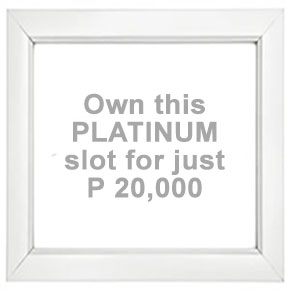
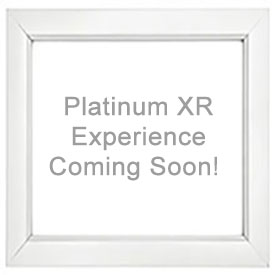
edits

Changed region(s): [[0.1745, 0.32, 0.8145, 0.6982]]

diff --git a/learn-more.php b/learn-more.php
@@ -1,7 +1,7 @@
 <?php
 
 $title = "What is ARville?";
-$description = "ARville is an online ecosystem of businesses, consumers, and communities connected together by immersive AR experiences and innovative marketing and customer relationship tools.";
+$description = "ARville is an online ecosystem of businesses, consumers, and communities connected together by immersive XR experiences and innovative marketing and customer relationship tools.";
 
 // Header section
 echo "<!DOCTYPE html>";
@@ -36,12 +36,12 @@ echo "        <div class='mt-5'></div>";
 echo "        <!-- Section: What Makes Us Unique -->";
 echo "        <div class='row text-start'>";
 echo "            <div class='col-lg-6 mb-4'>";
-echo "                <h3 style='border-top: 5px solid darkred; border-bottom: 5px solid darkred; padding: 10px 0;'>Immersive AR Experiences</h3>";
-echo "                <p>ARville harnesses the power of augmented reality (AR) to revolutionize customer engagement, making every interaction more dynamic and impactful. Businesses can showcase virtual product demonstrations, simulate real-world scenarios, and create fully interactive marketing campaigns that captivate their audiences. Whether it's allowing customers to visualize furniture in their homes or immersing them in a gamified shopping experience, AR bridges the gap between imagination and reality. These experiences not only leave a lasting impression but also foster deep brand loyalty and enhanced customer satisfaction.</p>";
+echo "                <h3 style='border-top: 5px solid darkred; border-bottom: 5px solid darkred; padding: 10px 0;'>Immersive XR Experiences</h3>";
+echo "                <p>ARville harnesses the power of extended reality (XR) to revolutionize customer engagement, making every interaction more dynamic and impactful. Businesses can showcase virtual product demonstrations, simulate real-world scenarios, and create fully interactive marketing campaigns that captivate their audiences. Whether it's allowing customers to visualize furniture in their homes or immersing them in a gamified shopping experience, XR bridges the gap between imagination and reality. These experiences not only leave a lasting impression but also foster deep brand loyalty and enhanced customer satisfaction.</p>";
 echo "            </div>";
 echo "            <div class='col-lg-6 mb-4'>";
 echo "                <h3 style='border-top: 5px solid darkred; border-bottom: 5px solid darkred; padding: 10px 0;'>Innovative Marketing Tools</h3>";
-echo "                <p>ARville provides businesses with state-of-the-art tools to implement and manage AR-driven marketing strategies effortlessly. Our platform enables companies to create customized AR campaigns, track their performance, and gain invaluable insights into customer preferences and behavior. These analytics empower businesses to refine their strategies in real time, ensuring maximum effectiveness and engagement. By offering a seamless blend of creativity and data-driven decision-making, ARville equips businesses to stay ahead in today's competitive marketplace.</p>";
+echo "                <p>ARville provides businesses with state-of-the-art tools to implement and manage XR-driven marketing strategies effortlessly. Our platform enables companies to create customized XR campaigns, track their performance, and gain invaluable insights into customer preferences and behavior. These analytics empower businesses to refine their strategies in real time, ensuring maximum effectiveness and engagement. By offering a seamless blend of creativity and data-driven decision-making, ARville equips businesses to stay ahead in today's competitive marketplace.</p>";
 echo "            </div>";
 echo "        </div>";
 
@@ -49,11 +49,11 @@ echo "        <!-- Section: Who We Serve -->";
 echo "        <div class='row text-start'>";
 echo "            <div class='col-lg-6 mb-4'>";
 echo "                <h3 style='border-top: 5px solid darkred; border-bottom: 5px solid darkred; padding: 10px 0;'>Value to Businesses</h3>";
-echo "                <p>ARville is designed to cater to businesses of all sizes, from innovative startups looking to make their mark to established enterprises aiming to enhance their brand presence. Our platform helps businesses stand out by offering unique AR experiences that attract and retain customers. By integrating AR into their operations, businesses can increase product visibility, foster meaningful interactions, and provide value-driven customer engagements. Whether it's an online retailer offering AR fitting rooms or a cafe using AR promotions, ARville helps businesses redefine how they connect with their audience.</p>";
+echo "                <p>ARville is designed to cater to businesses of all sizes, from innovative startups looking to make their mark to established enterprises aiming to enhance their brand presence. Our platform helps businesses stand out by offering unique XR experiences that attract and retain customers. By integrating XR into their operations, businesses can increase product visibility, foster meaningful interactions, and provide value-driven customer engagements. Whether it's an online retailer offering XR fitting rooms or a cafe using XR promotions, ARville helps businesses redefine how they connect with their audience.</p>";
 echo "            </div>";
 echo "            <div class='col-lg-6 mb-4'>";
 echo "                <h3 style='border-top: 5px solid darkred; border-bottom: 5px solid darkred; padding: 10px 0;'>Value to Consumers</h3>";
-echo "                <p>For consumers, ARville transforms everyday activities like shopping, learning, and entertainment into immersive and interactive experiences. Imagine exploring a virtual neighborhood to discover exclusive deals or engaging in an AR treasure hunt while shopping online. ARville makes it possible for customers to visualize products, participate in gamified activities, and enjoy a more personalized and engaging user journey. This level of convenience and interactivity not only enhances customer satisfaction but also turns routine activities into memorable adventures.</p>";
+echo "                <p>For consumers, ARville transforms everyday activities like shopping, learning, and entertainment into immersive and interactive experiences. Imagine exploring a virtual neighborhood to discover exclusive deals or engaging in an XR treasure hunt while shopping online. ARville makes it possible for customers to visualize products, participate in gamified activities, and enjoy a more personalized and engaging user journey. This level of convenience and interactivity not only enhances customer satisfaction but also turns routine activities into memorable adventures.</p>";
 echo "            </div>";
 echo "        </div>";
 
@@ -62,13 +62,13 @@ echo "        <div class='mt-3'>";
 echo "            <h2 style='color: #0447f3; font-weight: 600;'>Dynamic Features of ARville</h2>";
 echo "        <div class='mt-3'></div>";
 echo "            <ul class='list-group text-start'>";
-echo "                <li class='list-group-item'><strong>Quarterly Gamified Events:</strong> Participate in AR treasure hunts and thematic storylines that engage users with tenant-specific AR experiences.</li>";
-echo "                <li class='list-group-item'><strong>Annual ARville Convention or Concert:</strong> Explore virtual expos with 3D booths or enjoy AR-enhanced concerts sponsored by tenant businesses.</li>";
-echo "                <li class='list-group-item'><strong>Unified AR Branding:</strong> Experience cohesive branding with shared digital spaces and tenant AR experiences labeled 'Powered by ARville.'</li>";
-echo "                <li class='list-group-item'><strong>Centralized Rewards System:</strong> Earn and redeem AR points across tenants, boosting engagement and customer loyalty.</li>";
-echo "                <li class='list-group-item'><strong>Collaborative AR Experiences:</strong> Engage in joint promotions or story chains involving multiple tenants to create a shared AR narrative.</li>";
-echo "                <li class='list-group-item'><strong>Partnerships with High-Profile Events:</strong> Tie into major festivals or esports tournaments, leveraging AR to enhance visibility and user interaction.</li>";
-echo "                <li class='list-group-item'><strong>Community-Centric AR Events:</strong> Participate in AR-powered neighborhood tours or virtual art installations hosted by tenant businesses.</li>";
+echo "                <li class='list-group-item'><strong>Quarterly Gamified Events:</strong> Participate in XR treasure hunts and thematic storylines that engage users with tenant-specific XR experiences.</li>";
+echo "                <li class='list-group-item'><strong>Annual ARville Convention or Concert:</strong> Explore virtual expos with 3D booths or enjoy XR-enhanced concerts sponsored by tenant businesses.</li>";
+echo "                <li class='list-group-item'><strong>Unified XR Branding:</strong> Experience cohesive branding with shared digital spaces and tenant XR experiences labeled 'Powered by ARville.'</li>";
+echo "                <li class='list-group-item'><strong>Centralized Rewards System:</strong> Earn and redeem XR points across tenants, boosting engagement and customer loyalty.</li>";
+echo "                <li class='list-group-item'><strong>Collaborative XR Experiences:</strong> Engage in joint promotions or story chains involving multiple tenants to create a shared XR narrative.</li>";
+echo "                <li class='list-group-item'><strong>Partnerships with High-Profile Events:</strong> Tie into major festivals or esports tournaments, leveraging XR to enhance visibility and user interaction.</li>";
+echo "                <li class='list-group-item'><strong>Community-Centric XR Events:</strong> Participate in XR-powered neighborhood tours or virtual art installations hosted by tenant businesses.</li>";
 echo "                <li class='list-group-item'><strong>Measuring and Reinforcing Success:</strong> Use leaderboards, social media amplification, and event recaps to highlight engagement and tenant contributions.</li>";
 echo "            </ul>";
 echo "        </div>";

diff --git a/index.php b/index.php
@@ -30,7 +30,7 @@ echo "<html lang='en'>";
 echo "<head>";
 echo "    <meta charset='UTF-8'>";
 echo "    <meta name='viewport' content='width=device-width, initial-scale=1.0'>";
-echo "    <title>ARville - The Ultimate Online AR Network</title>";
+echo "    <title>ARville - The Ultimate Online XR Network</title>";
 echo "    <link rel='stylesheet' href='https://cdn.jsdelivr.net/npm/bootstrap@5.3.0/dist/css/bootstrap.min.css'>";
 echo "    <link rel='stylesheet' href='styles.css'>";
 echo "</head>";
@@ -63,10 +63,10 @@ echo "</nav>";
 echo "<header class='hero text-center py-5 bg-primary text-white'>";
 echo "    <div class='container'>";
 echo "        <h1 class='display-4 hero-title'>Step into the World of ARville:<br/>Where Marketing Becomes Immersive</h1>";
-echo "        <p class='lead hero-subtitle'>Explore magical Augmented Reality (AR) experiences or join the network to revolutionize your business.</p>";
+echo "        <p class='lead hero-subtitle'>Explore magical online Extended Reality (XR) experiences or join our web XR network to revolutionize your business.</p>";
 echo "        <div class='d-flex justify-content-center gap-3'>";
-echo "            <a href='use-cases.php' id='discover-btn' class='btn btn-lg btn-outline-light me-5 hero-btn'>Discover AR Experiences</a>";
-echo "            <a href='plans.php' id='join-btn' class='btn btn-lg btn-outline-light hero-btn'>Join the Network</a>";
+echo "            <a href='use-cases.php' id='discover-btn' class='btn btn-lg btn-outline-light me-5 hero-btn'>Discover Web XR Experiences</a>";
+echo "            <a href='plans.php' id='join-btn' class='btn btn-lg btn-outline-light hero-btn'>Join the Web XR Network</a>";
 echo "        </div>";
 echo "    </div>";
 echo "</header>";
@@ -121,20 +121,20 @@ echo "</style>";
 // Business Categories Section
 echo "<section class='categories py-5' id='categories'>";
 echo "    <div class='container'>";
-echo "        <h2 class='text-center mb-4'>Explore Our Vibrant AR Network</h2>";
+echo "        <h2 class='text-center mb-4'>Explore Our Vibrant Web XR Network</h2>";
 echo "        <div style='height: 20px;'></div>"; // Spacer element
 echo "        <div class='row g-4'>";
 
 $categories = [
-    ["title" => "Hospitality and Tourism", "tagline" => "Enhance your travel experiences with AR-driven services.", "icon" => "icon-hospitality.jpg", "hoverIcon" => "icon-hospitality2.jpg", "link" => "cat-page.php?cat=hospitality"],
-    ["title" => "Education and Development", "tagline" => "Empower your mind through AR.", "icon" => "icon-education.jpg", "hoverIcon" => "icon-education2.jpg", "link" => "cat-page.php?cat=education"],
-    ["title" => "Sports and Hobbies", "tagline" => "Immerse yourself in passionate AR experiences.", "icon" => "icon-sports.jpg", "hoverIcon" => "icon-sports2.jpg", "link" => "cat-page.php?cat=sports"],
-    ["title" => "Electronics and Gadgets", "tagline" => "Acquaint yourself with tech products through AR.", "icon" => "icon-electronics.jpg", "hoverIcon" => "icon-electronics2.jpg", "link" => "cat-page.php?cat=electronics"],
-    ["title" => "Style and Fashion", "tagline" => "Reinvent your look with AR.", "icon" => "icon-fashion.jpg", "hoverIcon" => "icon-fashion2.jpg", "link" => "cat-page.php?cat=fashion"],
-    ["title" => "Beauty and Wellness", "tagline" => "Elevate your self-care through AR.", "icon" => "icon-beauty.jpg", "hoverIcon" => "icon-beauty2.jpg", "link" => "cat-page.php?cat=beauty"],
-    ["title" => "Cars and Car Accessories", "tagline" => "Immerse yourself in the glitz of showbiz with AR.", "icon" => "icon-cars.jpg", "hoverIcon" => "icon-cars2.jpg", "link" => "cat-page.php?cat=cars"],
-    ["title" => "Real Estate", "tagline" => "Enjoy looking for property investments through AR.", "icon" => "icon-estate.jpg", "hoverIcon" => "icon-estate2.jpg", "link" => "cat-page.php?cat=estate"],
-    ["title" => "Government and Public Service", "tagline" => "Find government information and assistance through AR.", "icon" => "icon-gov.jpg", "hoverIcon" => "icon-gov2.jpg", "link" => "cat-page.php?cat=gov"],
+    ["title" => "Hospitality and Tourism", "tagline" => "Enhance your travel experiences with XR-driven services.", "icon" => "icon-hospitality.jpg", "hoverIcon" => "icon-hospitality2.jpg", "link" => "cat-page.php?cat=hospitality"],
+    ["title" => "Education and Development", "tagline" => "Empower your mind through XR.", "icon" => "icon-education.jpg", "hoverIcon" => "icon-education2.jpg", "link" => "cat-page.php?cat=education"],
+    ["title" => "Sports and Recreation", "tagline" => "Immerse yourself in passionate XR experiences.", "icon" => "icon-sports.jpg", "hoverIcon" => "icon-sports2.jpg", "link" => "cat-page.php?cat=sports"],
+    ["title" => "Electronics and Gadgets", "tagline" => "Acquaint yourself with tech products through XR.", "icon" => "icon-electronics.jpg", "hoverIcon" => "icon-electronics2.jpg", "link" => "cat-page.php?cat=electronics"],
+    ["title" => "Style and Fashion", "tagline" => "Reinvent your look with XR.", "icon" => "icon-fashion.jpg", "hoverIcon" => "icon-fashion2.jpg", "link" => "cat-page.php?cat=fashion"],
+    ["title" => "Beauty and Wellness", "tagline" => "Elevate your self-care through XR.", "icon" => "icon-beauty.jpg", "hoverIcon" => "icon-beauty2.jpg", "link" => "cat-page.php?cat=beauty"],
+    ["title" => "Cars and Car Accessories", "tagline" => "Find upgrades and accessories for your car with XR.", "icon" => "icon-cars.jpg", "hoverIcon" => "icon-cars2.jpg", "link" => "cat-page.php?cat=cars"],
+    ["title" => "Real Estate", "tagline" => "Enjoy looking for property investments through XR.", "icon" => "icon-estate.jpg", "hoverIcon" => "icon-estate2.jpg", "link" => "cat-page.php?cat=estate"],
+    ["title" => "Government and Public Service", "tagline" => "Find government information and assistance through XR.", "icon" => "icon-gov.jpg", "hoverIcon" => "icon-gov2.jpg", "link" => "cat-page.php?cat=gov"],
 ];
 
 foreach ($categories as $category) {
@@ -165,7 +165,7 @@ echo "            <div style='margin-bottom: 5px;'></div>";
 echo "<section class='about py-5' id='about' style='background-color: #f2f2f2;'>"; 
 echo "    <div class='container text-center'>";
 echo "        <h2>What is ARville?</h2>";
-echo "        <p class='lead'>ARville is an online ecosystem of businesses, consumers, and communities connected together by immersive AR experiences and innovative marketing and customer relationship tools.</p>";
+echo "        <p class='lead'>ARville is an online ecosystem of businesses, consumers, and communities connected together by immersive XR experiences and innovative marketing and customer relationship tools.</p>";
 echo "        <a href='learn-more.php' class='btn btn-primary btn-lg'>Learn More About ARville</a>";
 echo "    </div>";
 echo "</section>";
@@ -174,35 +174,35 @@ echo "</section>";
 echo "<section class='plans py-4' id='plans'>";
 echo "    <div class='container'>";
 echo "        <h2 class='text-center mb-4'>Plans to Suit Every Vision</h2>";
-echo "        <div class='row g-4'>";
+echo "        <div class='row g-4 align-items-stretch'>"; // Added align-items-stretch for equal height
 
 $plans = [
     [
         "name" => "Silver Plan", 
-        "features" => "Essential AR tools designed for small businesses eager to expand and grow quickly.", 
+        "features" => "Place three (3) products or signages in high-traffic communal AR or VR environments.", 
         "cta" => "Sign Up", 
         "link" => "signup-silver.php"
     ],
     [
         "name" => "Gold Plan", 
-        "features" => "Advanced AR capabilities tailored for mainstream businesses aiming to maintain market leadership.", 
+        "features" => "Own an exclusive AR or VR scene or a booth in a large VR venue: perfect for a branded showroom, VIP lounge, or interactive product demo.", 
         "cta" => "Sign Up", 
         "link" => "signup-gold.php"
     ],
     [
         "name" => "Platinum Plan", 
-        "features" => "Customized AR solutions for large businesses seeking to enhance prestige and exclusivity.", 
+        "features" => "Own a grand, landmark VR environment like a virtual expo hall, convention center, museum, or mall to host events and immersive brand experiences.", 
         "cta" => "Sign Up", 
         "link" => "signup-platinum.php"
     ]
 ];
 
 foreach ($plans as $plan) {
-    echo "<div class='col-lg-4 col-md-6'>";
-    echo "    <div class='plan border rounded p-4 text-center'>";
+    echo "<div class='col-lg-4 col-md-6 d-flex'>"; // Added d-flex
+    echo "    <div class='plan border rounded p-4 text-center d-flex flex-column w-100'>"; // Added d-flex flex-column w-100
     echo "        <h3>{$plan['name']}</h3>";
-    echo "        <p>{$plan['features']}</p>";
-    echo "        <a href='{$plan['link']}' class='btn btn-primary'>{$plan['cta']}</a>";
+    echo "        <p class='flex-grow-1'>{$plan['features']}</p>"; // Added flex-grow-1
+    echo "        <a href='{$plan['link']}' class='btn btn-primary mt-auto'>{$plan['cta']}</a>"; // Added mt-auto
     echo "    </div>";
     echo "</div>";
 }
@@ -211,12 +211,26 @@ echo "        </div>";
 echo "    </div>";
 echo "</section>";
 
+// Add custom CSS for plan section
+echo "<style>";
+echo ".plans .plan {";
+echo "    transition: transform 0.3s ease, box-shadow 0.3s ease;";
+echo "}";
+echo ".plans .plan:hover {";
+echo "    transform: translateY(-5px);";
+echo "    box-shadow: 0 10px 20px rgba(0,0,0,0.1);";
+echo "}";
+echo ".plans .btn {";
+echo "    min-width: 120px;";
+echo "}";
+echo "</style>";
+
 // Footer
 echo "<footer class='footer py-4 bg-dark text-white text-center'>";
 echo "    <div class='container'>";
 echo "        <p>&copy; " . date('Y') . " ARville. All rights reserved.</p>";
 echo "        <div class='footer-links'>";
-echo "            <a href='products.php' class='text-white'>AR Products</a> | ";
+echo "            <a href='products.php' class='text-white'>XR Products</a> | ";
 echo "            <a href='plans.php' class='text-white'>Subscription Plans</a> | ";
 echo "            <a href='about-us.php' class='text-white'>About Us</a> | ";
 echo "            <a href='contact.php' class='text-white'>Contact</a>";

diff --git a/plans.php b/plans.php
@@ -3,11 +3,9 @@
 $plans = [
     [
         "name" => "Silver Plan",
-        "price" => "&#8369;10,000",
+        "price" => "Starts at &#8369;2,000",
         "features" => [
-            "Essential AR tools",
-            "Basic analytics",
-            "Email support",
+            "Place three (3) products or signages in high-traffic communal AR or VR environments.",
         ],
         "cta" => "Sign Up",
         "link" => "signup-silver.php",
@@ -15,11 +13,9 @@ $plans = [
     ],
     [
         "name" => "Gold Plan",
-        "price" => "&#8369;20,000",
+        "price" => "Starts at &#8369;6,000",
         "features" => [
-            "Advanced AR tools",
-            "Gamification features",
-            "Priority support",
+            "Own an exclusive AR or VR scene or a booth in a large VR venue: perfect for a branded showroom, VIP lounge, or interactive product demo.",
         ],
         "cta" => "Sign Up",
         "link" => "signup-gold.php",
@@ -27,11 +23,9 @@ $plans = [
     ],
     [
         "name" => "Platinum Plan",
-        "price" => "&#8369;50,000",
+        "price" => "Starts at &#8369;30,000",
         "features" => [
-            "Tailored AR solutions",
-            "Comprehensive analytics",
-            "24/7 dedicated support",
+            "Own a grand, landmark VR environment like a virtual expo hall, convention center, museum, or mall to showcase a multitude of products, host events, and offer immersive brand experiences.",
         ],
         "cta" => "Sign Up",
         "link" => "signup-platinum.php",
@@ -48,6 +42,48 @@ echo "    <meta name='viewport' content='width=device-width, initial-scale=1.0'>
 echo "    <title>Plans - Arville</title>";
 echo "    <link rel='stylesheet' href='https://cdn.jsdelivr.net/npm/bootstrap@5.3.0/dist/css/bootstrap.min.css'>";
 echo "    <link rel='stylesheet' href='styles.css'>";
+echo "    <style>";
+echo "        .card {";
+echo "            transition: transform 0.3s ease, box-shadow 0.3s ease;";
+echo "            height: 100%;";
+echo "            display: flex;";
+echo "            flex-direction: column;";
+echo "        }";
+echo "        .card:hover {";
+echo "            transform: translateY(-5px);";
+echo "            box-shadow: 0 10px 20px rgba(0,0,0,0.15) !important;";
+echo "        }";
+echo "        .card-body {";
+echo "            display: flex;";
+echo "            flex-direction: column;";
+echo "            flex-grow: 1;";
+echo "        }";
+echo "        .card-body .btn {";
+echo "            margin-top: auto;";
+echo "            width: 80%;";
+echo "            align-self: center;";
+echo "        }";
+echo "        .border-gold {";
+echo "            border: 3px solid gold !important;";
+echo "        }";
+echo "        .border-lightblue {";
+echo "            border: 3px solid #add8e6 !important;";
+echo "        }";
+echo "        .border-gray {";
+echo "            border: 3px solid #dee2e6 !important;";
+echo "        }";
+echo "        .most-popular {";
+echo "            color: gold;";
+echo "            font-size: 1.1rem;";
+echo "            font-weight: bold;";
+echo "            margin-top: -0.5rem;";
+echo "            margin-bottom: 0.5rem;";
+echo "        }";
+echo "        .list-group-item {";
+echo "            border: none;";
+echo "            padding: 0.75rem 0;";
+echo "        }";
+echo "    </style>";
 echo "</head>";
 echo "<body>";
 
@@ -74,33 +110,33 @@ echo "</nav>";
 // Header Section
 echo "<header class='text-center py-5 bg-primary text-white'>";
 echo "    <h1>Choose the Plan That Fits Your Needs</h1>";
-echo "    <p class='lead'>Empowering your business with cutting-edge AR solutions.</p>";
+echo "    <p class='lead'>Empowering your business with cutting-edge XR solutions.</p>";
 echo "</header>";
 
 // Plans Section
 echo "<main class='py-5'>";
 echo "    <div class='container'>";
-echo "        <div class='row row-cols-1 row-cols-md-3 g-4'>";
+echo "        <div class='row row-cols-1 row-cols-md-3 g-4 align-items-stretch'>"; // Added align-items-stretch
 
 // Loop through the plans
 foreach ($plans as $plan) {
     $borderColor = $plan['highlight'] ? "border-gold" : ($plan['name'] === "Platinum Plan" ? "border-lightblue" : "border-gray");
-	$mostPopular = $plan['highlight'] ? "<p style='color: gold; font-size: 1.5rem; font-weight: bold; margin-top: -0.5rem; margin-bottom: 0.5 rem;'>(Most Popular)</p>" : "";
+    $mostPopular = $plan['highlight'] ? "<p class='most-popular'>(Most Popular)</p>" : "";
 
-    echo "<div class='col'>";
-    echo "    <div class='card $borderColor text-center shadow-sm'>";
+    echo "<div class='col d-flex'>"; // Added d-flex
+    echo "    <div class='card $borderColor text-center shadow-sm w-100'>"; // Added w-100
     echo "        <div class='card-header bg-primary text-white'>";
     echo "            <h1>{$plan['name']}</h1>";
     echo $mostPopular; // Add 'Most Popular' for Gold Plan
     echo "        </div>";
-    echo "        <div class='card-body'>";
+    echo "        <div class='card-body d-flex flex-column'>"; // Added d-flex flex-column
     echo "            <h3 class='card-title text-primary'>{$plan['price']}</h3>";
-    echo "            <ul class='list-group list-group-flush my-3'>";
+    echo "            <ul class='list-group list-group-flush my-3 flex-grow-1'>"; // Added flex-grow-1
     foreach ($plan['features'] as $feature) {
         echo "                <li class='list-group-item'>$feature</li>";
     }
     echo "            </ul>";
-    echo "            <a href='{$plan['link']}' class='btn btn-primary'>{$plan['cta']}</a>";
+    echo "            <a href='{$plan['link']}' class='btn btn-primary mt-auto'>{$plan['cta']}</a>"; // Added mt-auto
     echo "        </div>";
     echo "    </div>";
     echo "</div>";

diff --git a/about-us.php b/about-us.php
@@ -1,7 +1,7 @@
 <?php
 // Define the "About ARville" page content
 $title = "About ARville";
-$description = "ARville is an online ecosystem of businesses, consumers, and communities connected together by immersive AR experiences and innovative marketing and customer relationship tools. Below are our mission, vision, and the dedicated team that brings it all together.";
+$description = "ARville is an online ecosystem of businesses, consumers, and communities connected together by immersive web XR experiences and innovative marketing and customer relationship tools. Below are our mission, vision, and the dedicated team that brings it all together.";
 
 // Header section
 echo "<!DOCTYPE html>";
@@ -54,13 +54,13 @@ echo "</div>";
 // Section: Mission
 echo "<div class='container mt-5'>"; // Add container for centered content
 echo "    <h2 style='color: #8b0000; font-weight: 600; background-color: #f7f7f7; padding: 15px; border-radius: 5px; text-align: center;'>Our Mission</h2>";
-echo "    <p class='mt-3 text-center'>ARville is committed to revolutionizing how businesses and communities connect through cutting-edge AR technology. We strive to empower businesses, enrich consumer experiences, and create a vibrant ecosystem where technology enhances real-world interactions.</p>";
+echo "    <p class='mt-3 text-center'>ARville is committed to revolutionizing how businesses and communities connect through cutting-edge  XR technology. We strive to empower businesses, enrich consumer experiences, and create a vibrant ecosystem where technology enhances real-world interactions.</p>";
 echo "</div>";
 
 // Section: Vision
 echo "<div class='container mt-5'>"; // Add container for centered content
 echo "    <h2 style='color: #8b0000; font-weight: 600; background-color: #f7f7f7; padding: 15px; border-radius: 5px; text-align: center;'>Our Vision</h2>";
-echo "    <p class='mt-3 text-center'>Our vision is to establish ARville as a global leader in AR-powered ecosystems, fostering innovation and bridging the gap between businesses and their audiences. We aim to create a seamless, interactive, and inclusive digital landscape for everyone.</p>";
+echo "    <p class='mt-3 text-center'>Our vision is to establish ARville as a global leader in web XR-powered ecosystems, fostering innovation and bridging the gap between businesses and their audiences. We aim to create a seamless, interactive, and inclusive digital landscape for everyone.</p>";
 echo "</div>";
 
 echo "    </div>";

diff --git a/cat-page.php b/cat-page.php
@@ -120,15 +120,15 @@ echo "</header>";
 // Category section
 
 $categories2 = [
-    "hospitality" => ["title" => "Hospitality and Tourism", "tagline" => "Enhance your travel experiences with AR-driven services."],
-    "education" => ["title" => "Education and Development", "tagline" => "Empower your mind through AR."],
-    "sports" => ["title" => "Sports and Hobbies", "tagline" => "Immerse yourself in passionate AR experiences."],
-    "electronics" => ["title" => "Electronics and Gadgets", "tagline" => "Acquaint yourself with tech products through AR."],
-    "fashion" => ["title" => "Style and Fashion", "tagline" => "Reinvent your look with AR."],
-    "beauty" => ["title" => "Beauty and Wellness", "tagline" => "Elevate your self-care through AR."],
-    "cars" => ["title" => "Cars and Car Accessories", "tagline" => "Immerse yourself in the glitz of showbiz with AR."],
-    "estate" => ["title" => "Real Estate", "tagline" => "Enjoy looking for property investments through AR."],
-    "gov" => ["title" => "Government and Public Service", "tagline" => "Find government information and assistance through AR."],
+    "hospitality" => ["title" => "Hospitality and Tourism", "tagline" => "Enhance your travel experiences with  XR-driven services."],
+    "education" => ["title" => "Education and Development", "tagline" => "Empower your mind through  XR."],
+    "sports" => ["title" => "Sports and Hobbies", "tagline" => "Immerse yourself in passionate  XR experiences."],
+    "electronics" => ["title" => "Electronics and Gadgets", "tagline" => "Acquaint yourself with tech products through  XR."],
+    "fashion" => ["title" => "Style and Fashion", "tagline" => "Reinvent your look with  XR."],
+    "beauty" => ["title" => "Beauty and Wellness", "tagline" => "Elevate your self-care through  XR."],
+    "cars" => ["title" => "Cars and Car Accessories", "tagline" => "Find upgrades and accessories for your car with XR."],
+    "estate" => ["title" => "Real Estate", "tagline" => "Enjoy looking for property investments through  XR."],
+    "gov" => ["title" => "Government and Public Service", "tagline" => "Find government information and assistance through  XR."],
 ];
 
 echo "<style>
